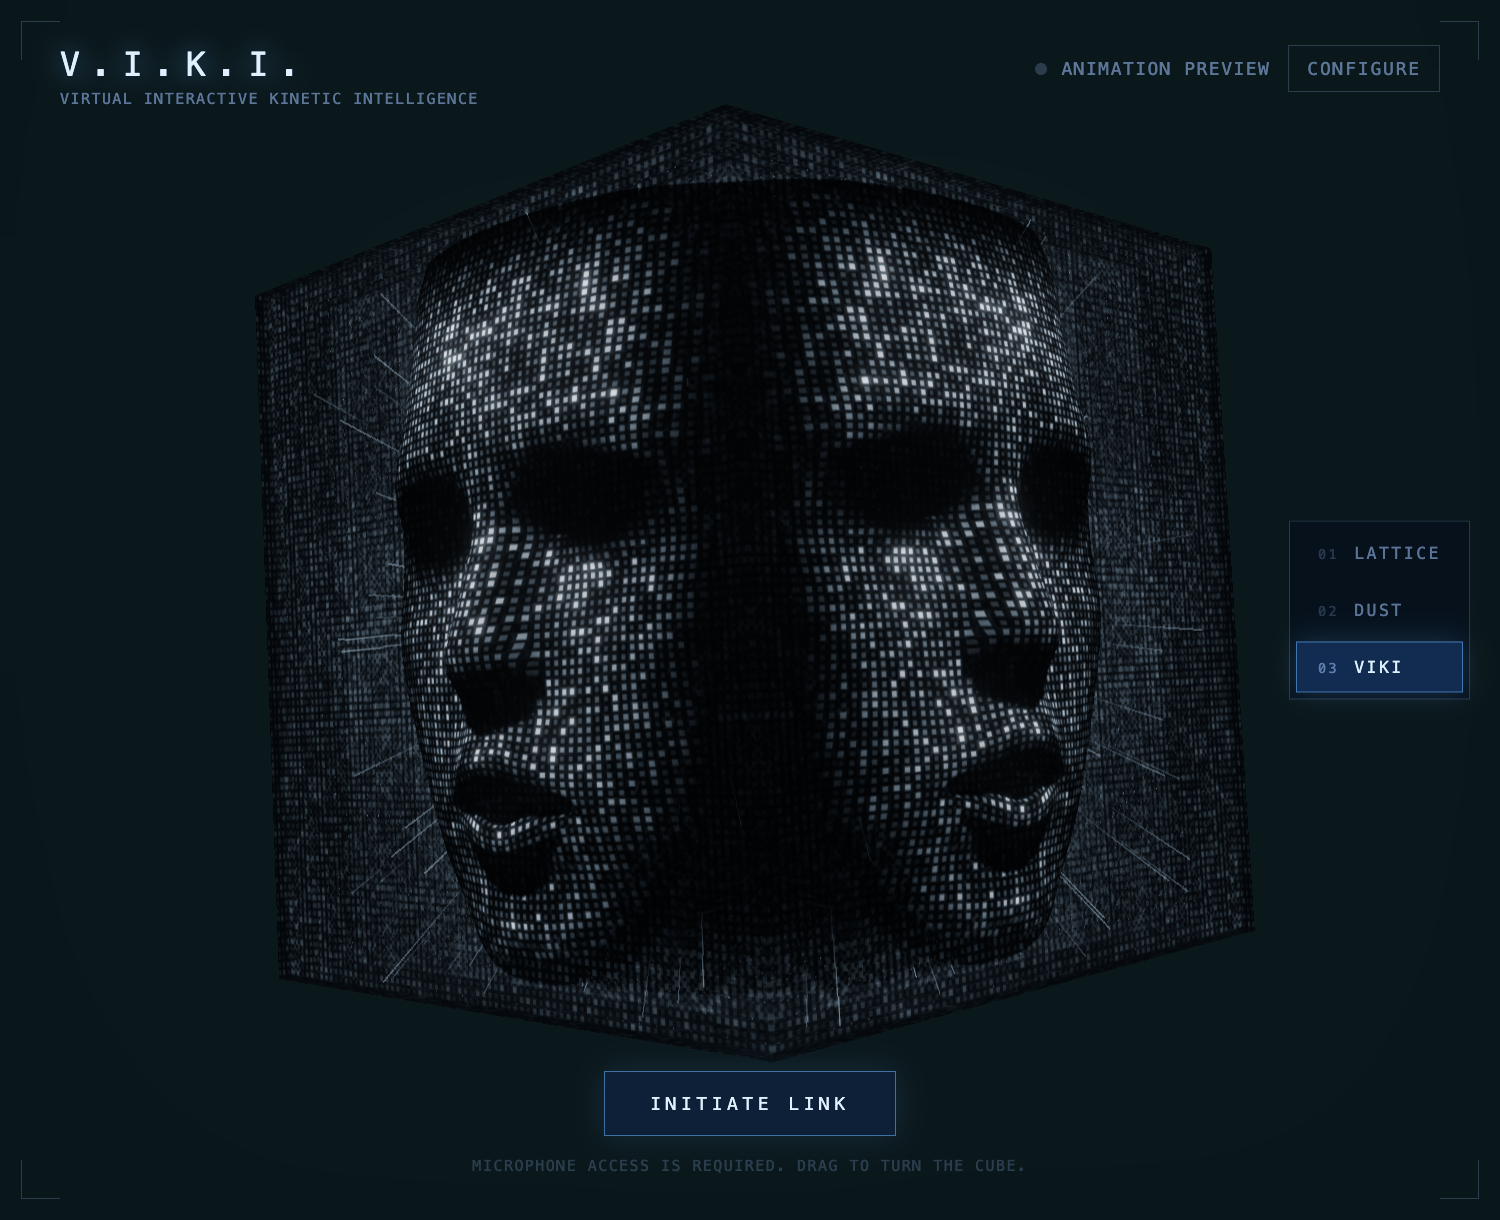
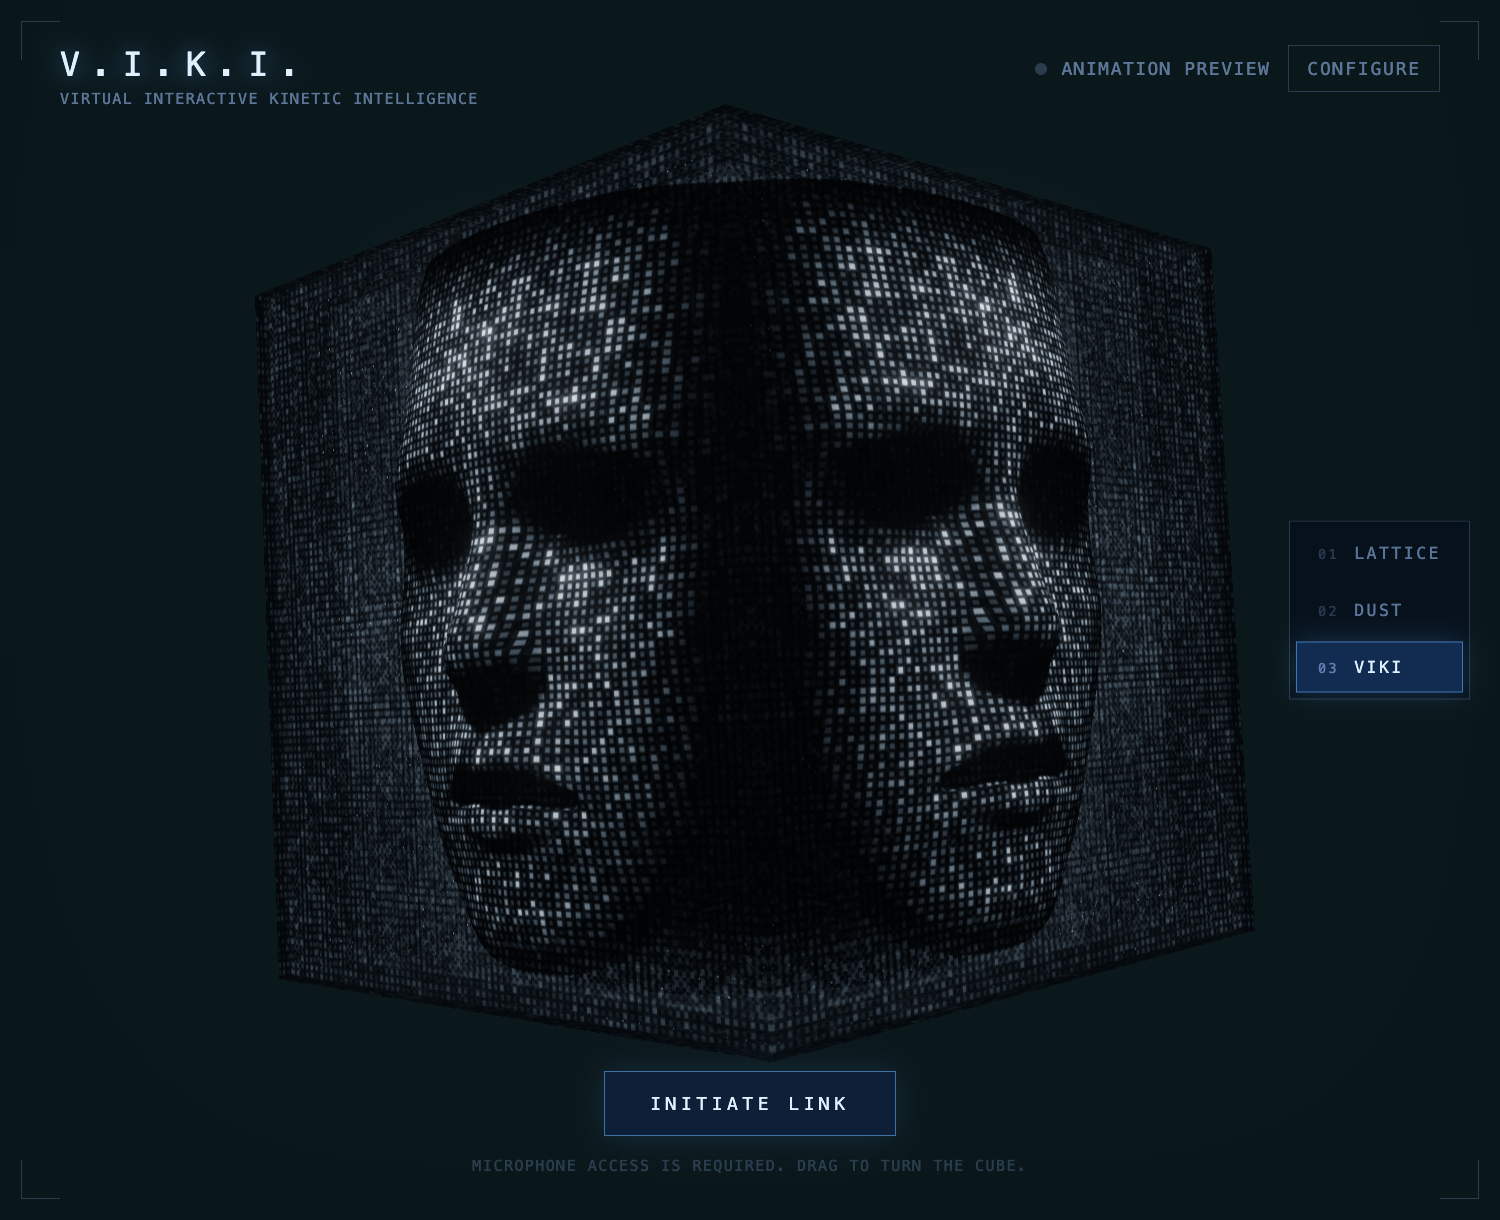
VIKI streams are tile chains through the matrix, gone when dormant
The line-segment rays are replaced by a pulse in the interior cell shader:
direction bins from the rear vanishing point light up consecutive real
grid cells, so each stream is a chain of pixel tiles with its own length
travelling through the pattern. Intensity is flow x formation - the
streams die out with the face when the link ends.

diff --git a/src/viki/VikiInterior.ts b/src/viki/VikiInterior.ts
@@ -52,8 +52,6 @@ export class VikiInterior {
   private cellMaterial: THREE.ShaderMaterial
   private room: THREE.Mesh
   private matrix: VikiMatrix
-  private rays!: THREE.LineSegments
-  private rayMaterial!: THREE.ShaderMaterial
   private headUniforms: HeadUniforms
   private chains = new PixelChains()
   private tileUniforms = {
@@ -73,17 +71,32 @@ export class VikiInterior {
       depthWrite: true, depthTest: true,
     })
     this.cellMaterial = new THREE.ShaderMaterial({
-      uniforms: { ...this.chains.uniforms, uFlow: { value: 0.55 }, uSize: { value: 3 } },
+      uniforms: { ...this.chains.uniforms, uFlow: { value: 0.55 }, uSize: { value: 3 }, uTime: { value: 0 }, uRays: { value: 0 }, uRaySpeed: { value: 0.7 } },
       vertexShader: /* glsl */ `
-        uniform float uFlow, uSize;
+        uniform float uFlow, uSize, uTime, uRays, uRaySpeed;
         attribute float aSeed;
         attribute vec2 aCell;
         ${PIXEL_CHAINS_GLSL}
         varying float vLight;
+        float rayHash(vec2 p) { return fract(sin(dot(p, vec2(127.1, 311.7))) * 43758.5453); }
         void main() {
           float pulse = chainLight(aCell) * 2.0;
           vLight = (0.06 + 0.20 * aSeed * aSeed) * (1.0 + uFlow * pulse);
           vLight *= mix(0.5, 1.0, smoothstep(-1.7, -0.1, position.z));
+
+          // Radial streams from the rear vanishing point: the existing grid cells
+          // light up one after another along a direction bin, so each stream is a
+          // chain of real pixel tiles with its own length, running through the pattern.
+          vec3 rel = position - vec3(0.0, 0.0, -1.62);
+          float dist = length(rel);
+          vec3 dir = rel / max(dist, 0.001);
+          vec2 bin = floor(vec2(atan(dir.x, dir.z), asin(clamp(dir.y, -1.0, 1.0))) * 20.0);
+          float h = rayHash(bin);
+          float carrier = step(0.80, h);
+          float front = fract(uTime * (0.18 + 0.35 * uRaySpeed) * (0.55 + 0.9 * fract(h * 7.13)) + fract(h * 41.7)) * 3.4;
+          float len = 0.3 + 0.9 * fract(h * 13.7);
+          float chain = carrier * step(dist, front) * step(front - len, dist) * smoothstep(front - len, front, dist);
+          vLight += uRays * chain * (0.5 + 0.4 * aSeed);
           vec4 mv = modelViewMatrix * vec4(position, 1.0);
           gl_Position = projectionMatrix * mv;
           gl_PointSize = clamp(uSize * 3.0 / -mv.z, 1.0, 6.0);
@@ -119,56 +132,6 @@ export class VikiInterior {
 
     this.matrix = new VikiMatrix(this.tileUniforms)
 
-    // Light streams rushing from a single rear point through the matrix towards
-    // the glass: one-point perspective rays, their length acting as motion blur.
-    const RAYS = 420
-    const rayDir = new Float32Array(RAYS * 2 * 3)
-    const raySeed = new Float32Array(RAYS * 2)
-    const rayEnd = new Float32Array(RAYS * 2)
-    const rayPos = new Float32Array(RAYS * 2 * 3)
-    let rayState = 9151
-    const rayRandom = () => ((rayState = (Math.imul(rayState, 1664525) + 1013904223) >>> 0) / 4294967296)
-    for (let i = 0; i < RAYS; i++) {
-      const d = new THREE.Vector3((rayRandom() * 2 - 1) * 0.9, (rayRandom() * 2 - 1) * 0.9, 0.35 + rayRandom() * 0.85).normalize()
-      const seed = rayRandom()
-      for (let v = 0; v < 2; v++) {
-        rayDir.set([d.x, d.y, d.z], (i * 2 + v) * 3)
-        raySeed[i * 2 + v] = seed
-        rayEnd[i * 2 + v] = v
-      }
-    }
-    const rayGeo = new THREE.BufferGeometry()
-    rayGeo.setAttribute('position', new THREE.BufferAttribute(rayPos, 3))
-    rayGeo.setAttribute('aDir', new THREE.BufferAttribute(rayDir, 3))
-    rayGeo.setAttribute('aSeed', new THREE.BufferAttribute(raySeed, 1))
-    rayGeo.setAttribute('aEnd', new THREE.BufferAttribute(rayEnd, 1))
-    this.rayMaterial = new THREE.ShaderMaterial({
-      uniforms: { uTime: { value: 0 }, uFlow: { value: 1 }, uSpeed: { value: 0.7 } },
-      vertexShader: /* glsl */ `
-        uniform float uTime, uFlow, uSpeed;
-        attribute vec3 aDir;
-        attribute float aSeed, aEnd;
-        varying float vLight;
-        void main() {
-          float cycle = 2.4 / (0.4 + uSpeed);
-          float t = fract(uTime / cycle + aSeed * 7.31);
-          float head = t * t * (3.0 - 2.0 * t) * 3.1;
-          float tail = max(head - (0.22 + 0.55 * uSpeed) * (0.4 + 0.6 * aSeed), 0.0);
-          vec3 origin = vec3(0.0, 0.0, -1.62);
-          vec3 p = origin + aDir * mix(tail, head, aEnd);
-          // born after leaving the point, gone just before the glass
-          float life = smoothstep(0.04, 0.30, t) * (1.0 - smoothstep(0.78, 0.98, t));
-          life *= 1.0 - smoothstep(-0.14, -0.02, origin.z + aDir.z * head);
-          vLight = uFlow * life * mix(0.07, 0.55, aEnd) * (0.35 + 0.65 * aSeed);
-          gl_Position = projectionMatrix * modelViewMatrix * vec4(p, 1.0);
-        }`,
-      fragmentShader: /* glsl */ `
-        varying float vLight;
-        void main() { gl_FragColor = vec4(vLight, 0.0, 0.0, 1.0); }`,
-      transparent: true, depthWrite: false, depthTest: true, blending: THREE.AdditiveBlending,
-    })
-    this.rays = new THREE.LineSegments(rayGeo, this.rayMaterial)
-    this.rays.frustumCulled = false
 
     // Walls continue the same tile matrix around the head, into the sides and floor.
     this.room = new THREE.Mesh(new THREE.BoxGeometry(2, 2, 1.8), new THREE.ShaderMaterial({
@@ -189,7 +152,7 @@ export class VikiInterior {
       side: THREE.BackSide,
     }))
     this.room.position.z = -0.9
-    this.scene.add(this.room, this.cells, this.matrix, this.rays)
+    this.scene.add(this.room, this.cells, this.matrix)
   }
 
   setGeometry(geometry: THREE.BufferGeometry, influences: number[]) {
@@ -212,8 +175,7 @@ export class VikiInterior {
     u.uDensity.value = 48 + 70 * cfg.density
     u.uCellSize.value = cfg.cellSize
     this.cellMaterial.uniforms.uFlow.value = cfg.dataFlow ?? 0.55
-    this.rayMaterial.uniforms.uFlow.value = cfg.dataFlow ?? 0.55
-    this.rayMaterial.uniforms.uSpeed.value = cfg.flowSpeed ?? 0.7
+    this.cellMaterial.uniforms.uRaySpeed.value = cfg.flowSpeed ?? 0.7
     this.flow = cfg.dataFlow ?? 0.55
     this.speed = cfg.flowSpeed ?? 0.7
   }
@@ -223,13 +185,12 @@ export class VikiInterior {
     // Skip submitting those invisible vertices while keeping every data particle.
     if (this.head) this.head.visible = this.headUniforms.uFormation.value >= 0.001
     if (this.flow > 0) this.chains.update(time, this.speed)
-    this.rayMaterial.uniforms.uTime.value = time
-    this.rays.visible = this.flow > 0.001
+    this.cellMaterial.uniforms.uTime.value = time
+    // The streams belong to her activity: they die out with the face.
+    this.cellMaterial.uniforms.uRays.value = this.flow * this.headUniforms.uFormation.value
   }
 
   dispose() {
-    this.rayMaterial.dispose()
-    this.rays.geometry.dispose()
     this.headMaterial.dispose()
     this.matrix.dispose()
     this.chains.dispose()
